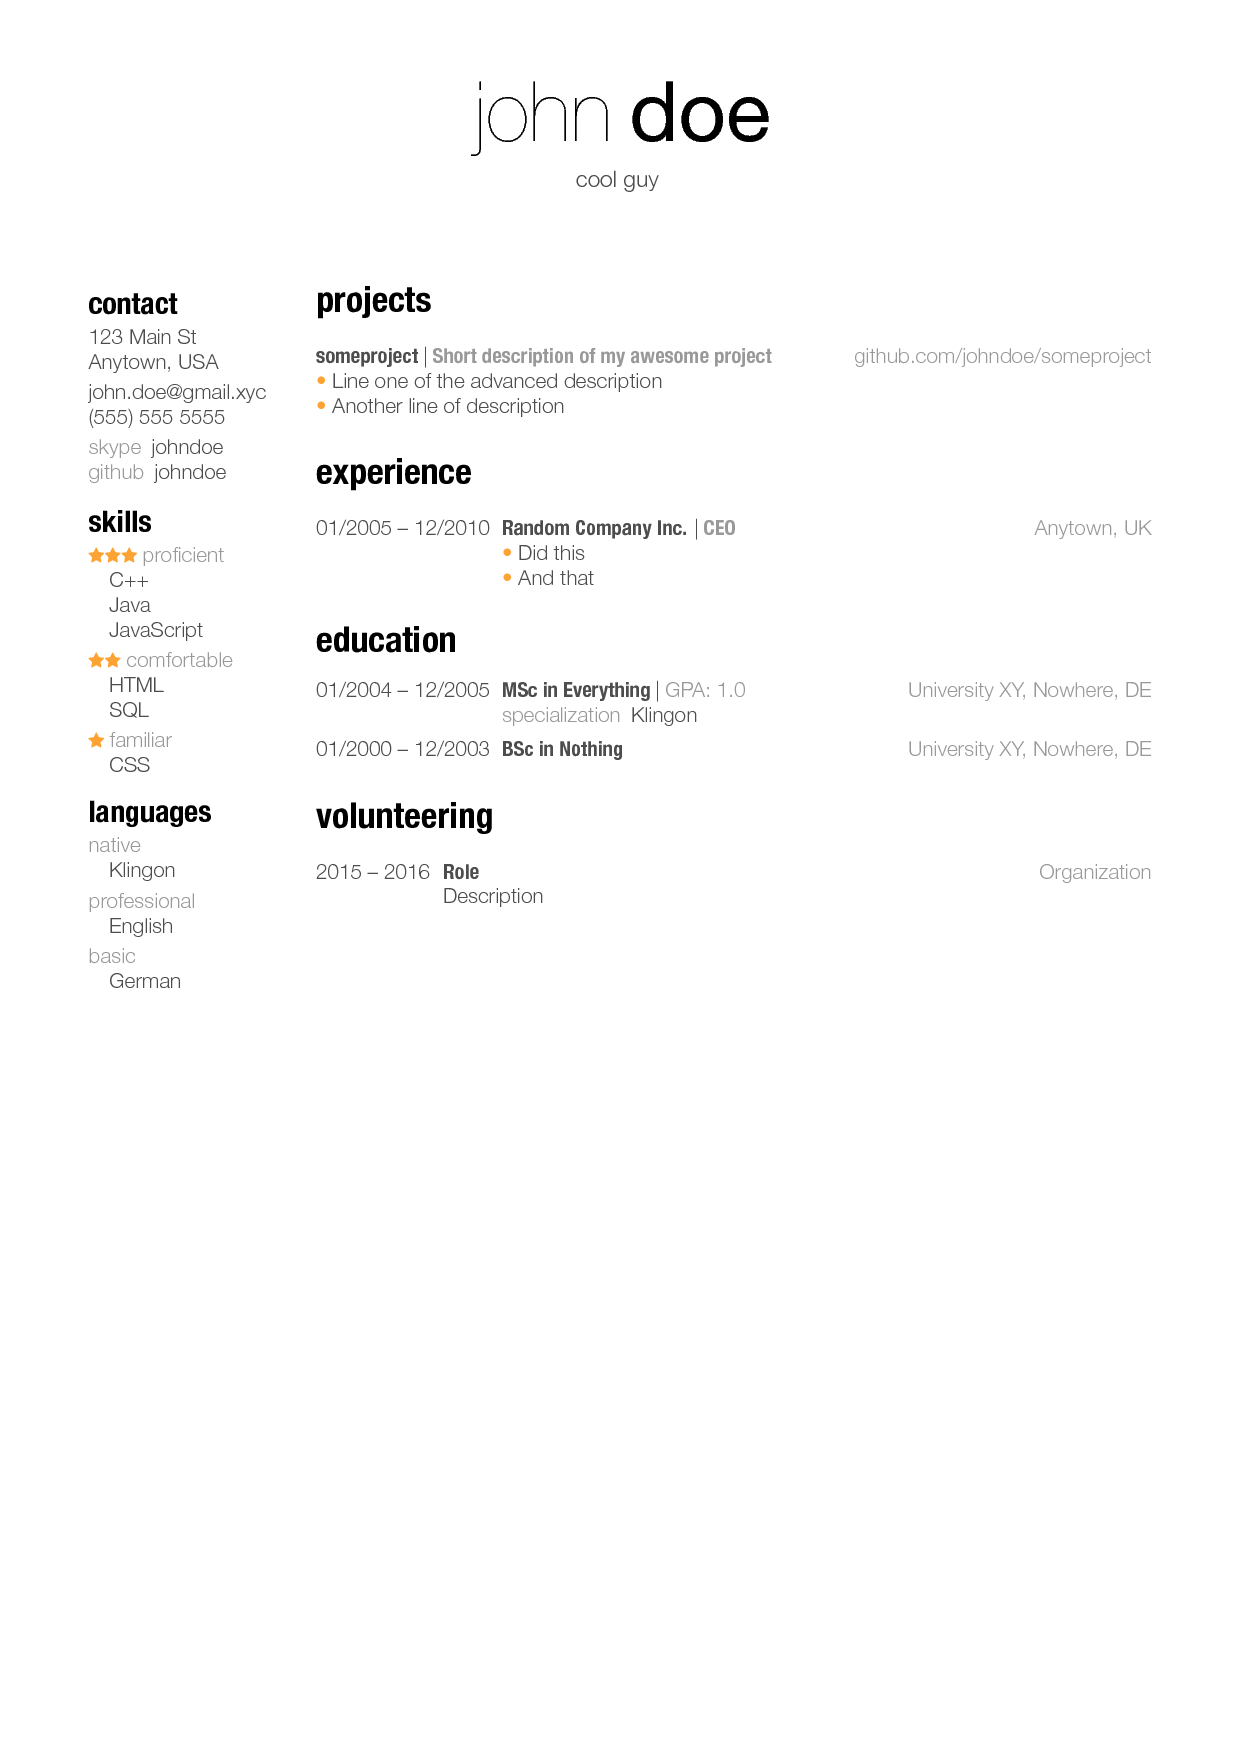
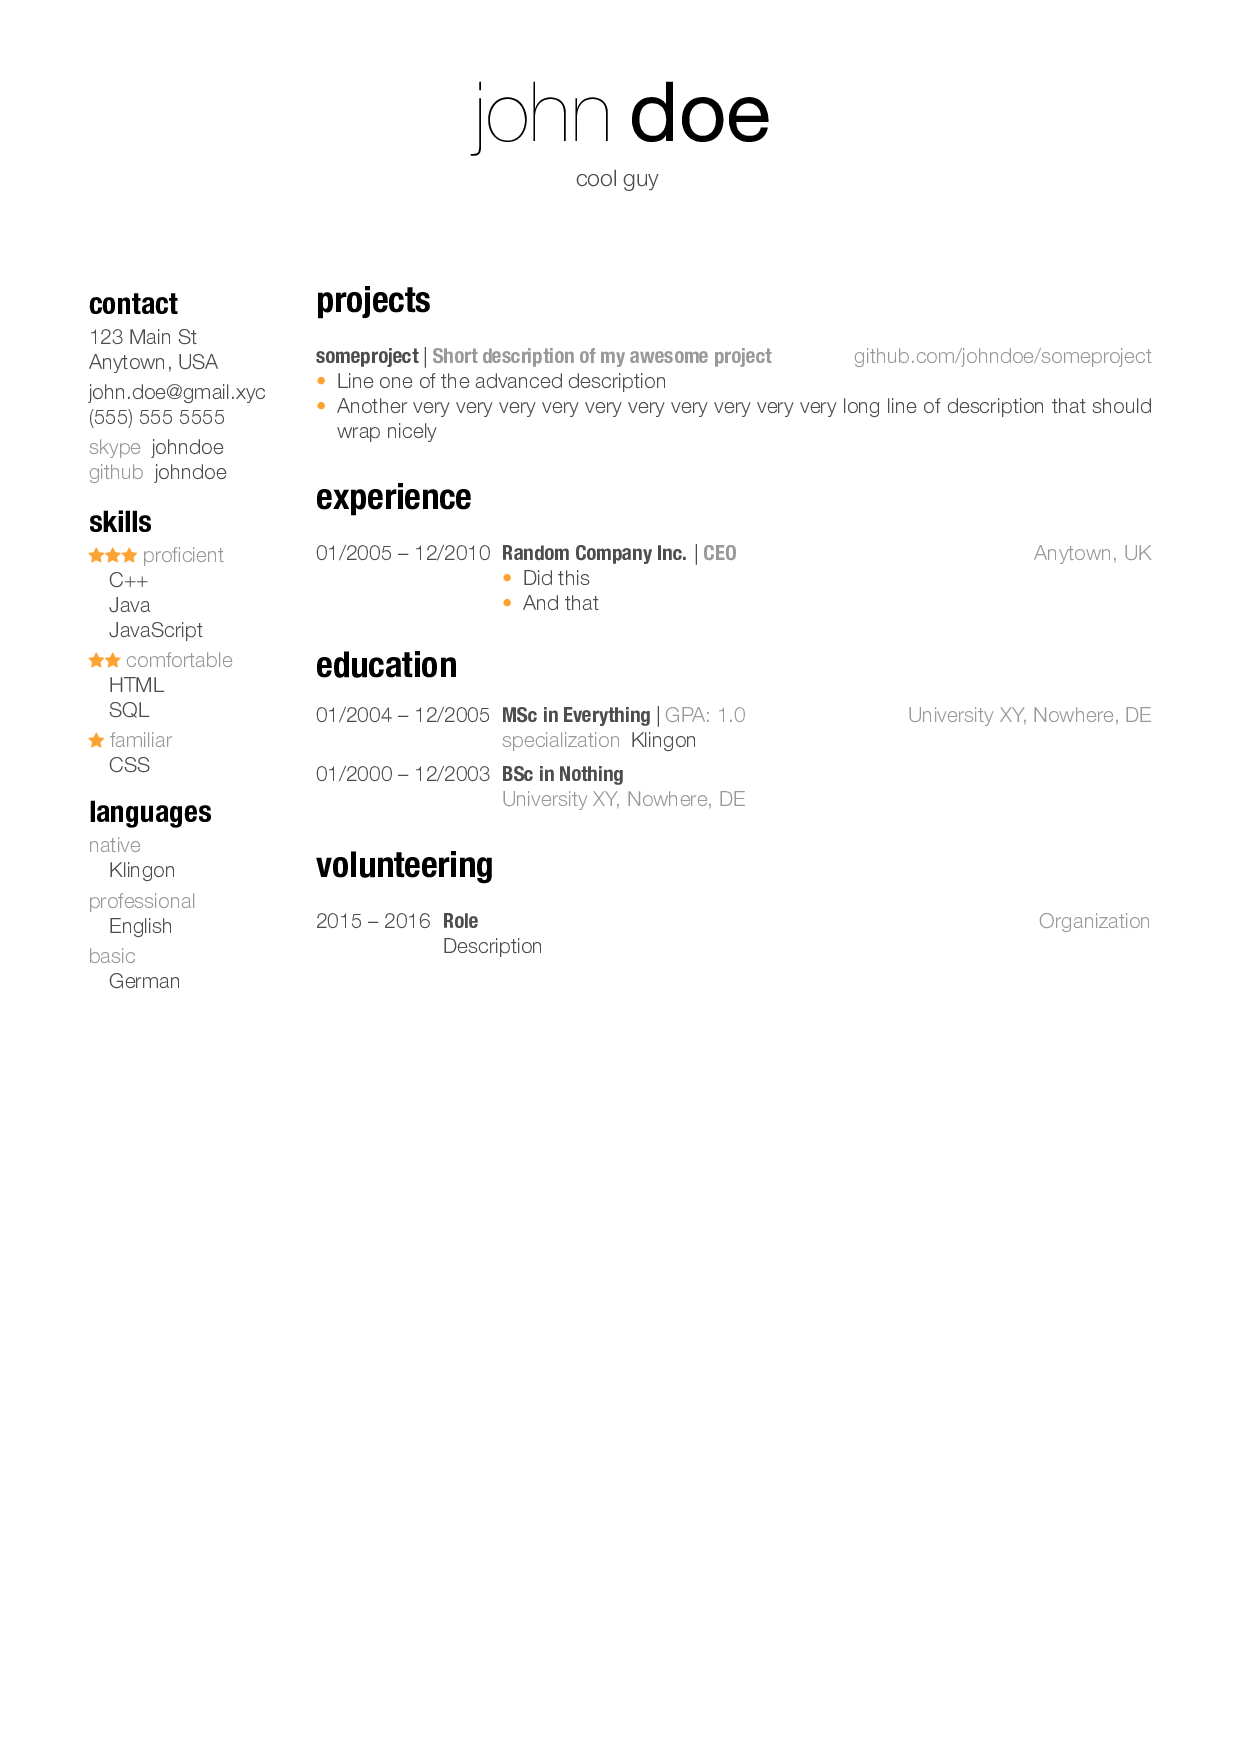
added entryitemize

diff --git a/example-cv.tex b/example-cv.tex
@@ -44,8 +44,10 @@
   \undatedentry
     {someproject \subheader{Short description of my awesome project}}
     {\href{https://github.com/johndoe/someproject}{github.com/johndoe/someproject}}
-    {\cbullet~Line one of the advanced description\\
-     \cbullet~Another line of description}
+    {\begin{entryitemize}
+       \item Line one of the advanced description
+       \item Another very very very very very very very very very very long line of description that should wrap nicely
+     \end{entryitemize}}
 \end{undatedentrylist}
 
 \section{experience}
@@ -55,8 +57,10 @@
     {01/2005 -- 12/2010}
     {Random Company Inc. \subheader{CEO}}
     {Anytown, UK}
-    {\cbullet~Did this\\
-     \cbullet~And that}
+    {\begin{entryitemize}
+       \item Did this
+       \item And that
+     \end{entryitemize}}
 \end{entrylist}
 
 \section{education}
@@ -66,11 +70,11 @@
     {01/2004 -- 12/2005}
     {MSc in Everything \gpa{GPA: 1.0}}
     {University XY, Nowhere, DE}
-    {\leftheader{specialization}{Klingon}}
+    {\\\leftheader{specialization}{Klingon}}
   \shortmonthentry
     {01/2000 -- 12/2003}
     {BSc in Nothing}
-    {University XY, Nowhere, DE}
+    {\\University XY, Nowhere, DE}
 \end{entrylist}
 
 \section{volunteering}
@@ -80,6 +84,6 @@
     {2015 -- 2016}
     {Role}
     {Organization}
-    {Description}
+    {\\Description}
 \end{entrylist}
 \end{document}
